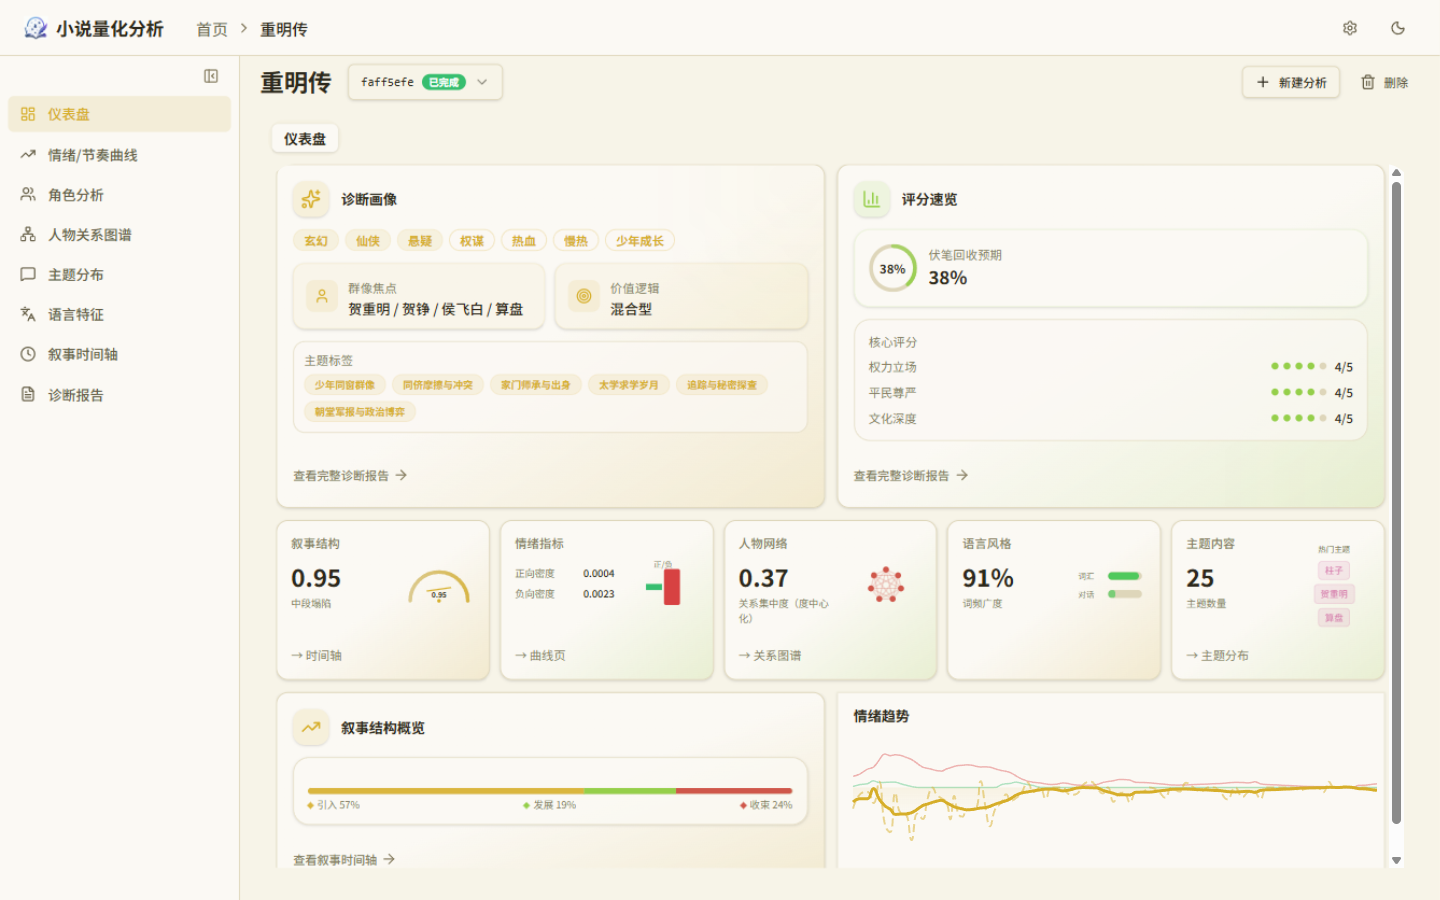
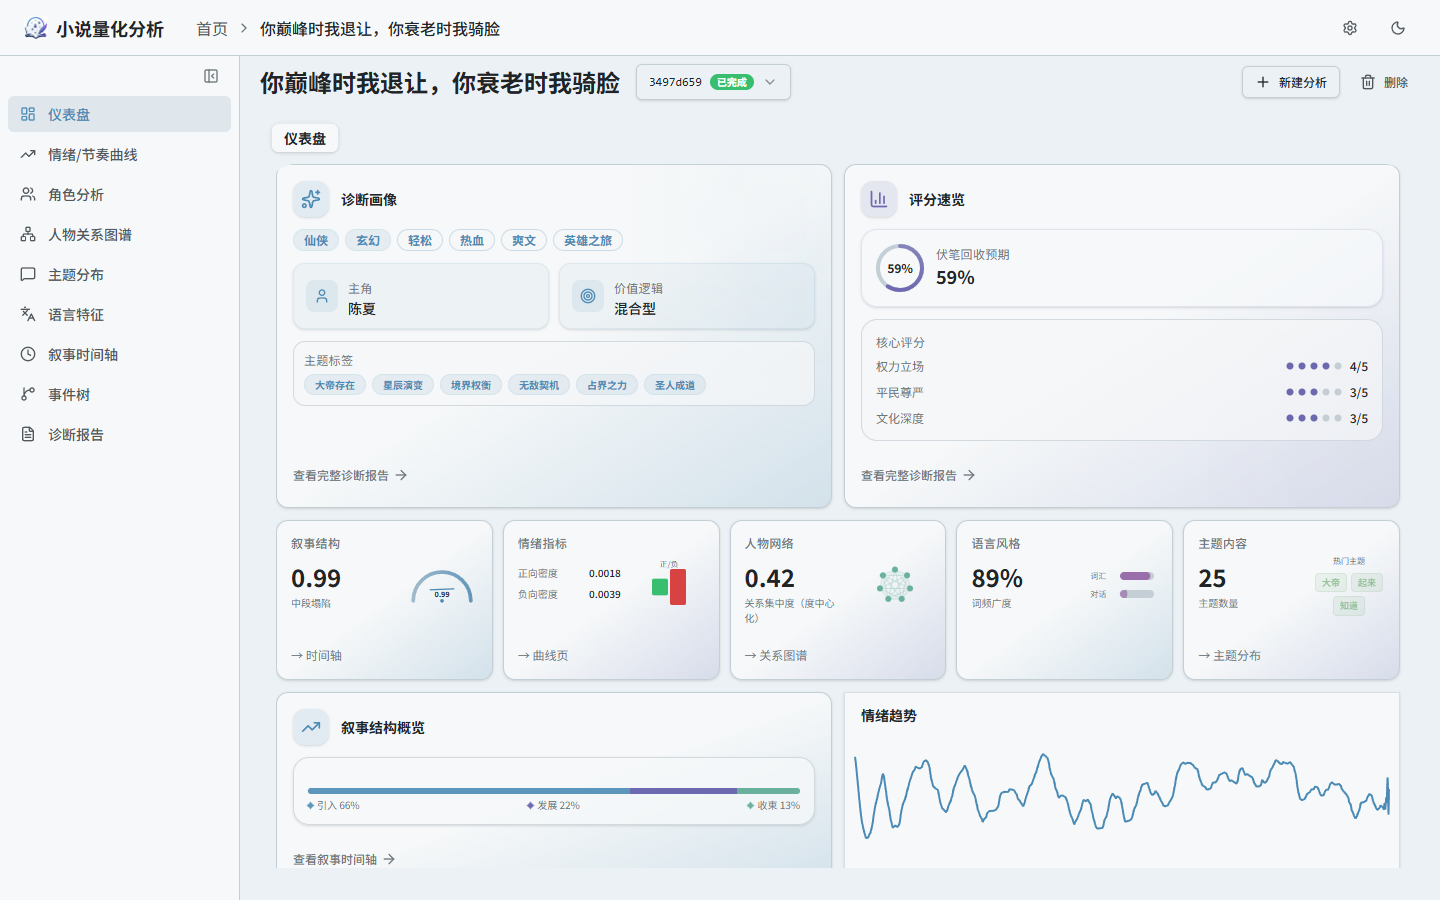
docs(readme): 更新中英文 README 与界面截图
同步嵌入查询格式化、启动结构校验与事件线界面现状，并更新截图。

diff --git a/README_EN.md b/README_EN.md
@@ -1,4 +1,4 @@
-# NovelIQ
+# NovelIQ
 
 > [中文文档](README.md)
 
@@ -12,13 +12,15 @@ A quantitative analysis platform for Chinese web novels: upload a full `.txt` bo
 
 Once analysis completes, the frontend provides:
 
-- **Sentiment / pacing curves**: paragraph-level sentiment scoring and narrative pacing metrics, whole-book curves with switchable windows
-- **Character relationship graph**: annotation agents record characters, dialogue and relations chapter by chapter, merged across chapters into a network browsed as a force-directed graph
-- **Event timeline**: plot events presented along a timeline
-- **Event trees**: inspect complete events, containment, causes and outcomes within a chapter range, with source evidence
+- **Dashboard**: score overview, dimension metrics, narrative structure, curve previews and diagnosis summary
+- **Sentiment / pacing curves**: sentiment trend aggregated by window and pacing tension smoothed per paragraph; whole-book curves with adjustable window granularity and zoom
+- **Character analysis**: appearance strength, narrative duties and focus rankings, with character arcs and emotion
+- **Character relationship graph**: annotation agents record characters and relations chapter by chapter, merged across chapters into a force-directed network searchable by character name
 - **Topic distribution**: LDA topic modeling that detects topic shifts across the plot
-- **Linguistic features**: LTP lexical and syntactic analysis, lexical richness (TTR/MTLD), dialogue ratio, and more
-- **Diagnostic report**: an LLM quality assessment grounded in whole-book evidence, exportable as a single-file HTML
+- **Linguistic features**: parts of speech, sentence patterns, word length and dependency statistics, plus entities, fixed expressions and word-vector aggregation
+- **Narrative timeline**: plot changes and character states presented along whole-book progress, with a switchable reading cutoff and display window
+- **Event trees and event lines**: the event-line view arranges key nodes by narrative line and opens the events each node covers; the directory lists every event per narrative line; details and source evidence are available
+- **Diagnostic report**: an LLM-generated comprehensive diagnosis based on whole-book evidence, plus independent foreshadowing tracking by clue state and chapter evidence
 
 | Sentiment / pacing curves | Character relationship graph |
 | --- | --- |
@@ -26,11 +28,9 @@ Once analysis completes, the frontend provides:
 | **Narrative timeline** | **Dashboard** |
 | ![Narrative timeline](assets/screenshots/timeline.png) | ![Dashboard](assets/screenshots/dashboard.png) |
 
-| Event forest | Causal structure within a tree |
+| Event lines | Event directory |
 | --- | --- |
-| ![Event forest](assets/screenshots/event-growth-forest-1440x900.png) | ![Causal structure within a tree](assets/screenshots/event-growth-tree-1440x900.png) |
-
-Read the [0.3.0 upgrade guide](docs/upgrades/UPGRADE-0.3.0.md) before upgrading from 0.2.1. The entry point defaults to read-only preflight; conversion requires a backup, an isolated rehearsal and an explicit database name. This release includes a legacy-conversion exception. Results requiring reanalysis still come from original input through the formal pipeline. Historical migration scripts apply only to their matching release checkout.
+| ![Event lines](assets/screenshots/event-lines.png) | ![Event directory](assets/screenshots/event-directory.png) |
 
 Stack: Python 3.12 / FastAPI / SQLAlchemy / PostgreSQL 17 (pgvector); React 19 / Vite / ECharts / Tailwind CSS. LLMs go through an OpenAI-compatible interface (self-hosted or third-party, both work); lexical analysis and word vectors are local offline models.
 
@@ -41,7 +41,7 @@ Stack: Python 3.12 / FastAPI / SQLAlchemy / PostgreSQL 17 (pgvector); React 19 /
 LTP and Word2Vec load from local files and **never download over the network**; both can be toggled in settings:
 
 - **LTP** (`linguistic.ltp.enabled`, on by default): a complete offline model directory, path configured via the `LTP_MODEL_DIR` environment variable. If enabled but the model is missing, analysis errors out at the Linguistic Analysis stage; when disabled, lexical/syntactic/semantic annotation is skipped
-- **Word2Vec** (`linguistic.word2vec.enabled`, off by default): no model needed while off; once enabled it requires the converted `.kv` main file under `models/word2vec/shared/` (depends on LTP tokens), and a missing file errors at the same stage. For existing `.vec`/`.bin`/`.txt` pretrained vectors, run:
+- **Word2Vec** (`linguistic.word2vec.enabled`, off by default): no model needed while off; once enabled it requires the converted `.kv` main file under `models/word2vec/shared/`; it depends on LTP tokens, is skipped when LTP is off, and errors when LTP is on but the file is missing. For existing `.vec`/`.bin`/`.txt` pretrained vectors, run:
 
   ```powershell
   uv run python -m scripts.convert_word2vec_pretrained
@@ -50,6 +50,8 @@ LTP and Word2Vec load from local files and **never download over the network**; 
   Reads from `models/word2vec/pretrained/` by default and writes to `models/word2vec/shared/`.
 
 The `models/` directory is not tracked by Git; Docker Compose mounts the host directory into the container at `/app/models`.
+
+**Embedding service**: `EMBEDDING_MODEL_BASE_URL` / `EMBEDDING_MODEL_ID` / `EMBEDDING_MODEL_KEY` point to an OpenAI-compatible embedding endpoint (a local llama-server or a cloud API; the vector dimension follows the actual output of the service). On the query side the format follows the model name: Qwen3-Embedding gets the official instruct prefix, while BGE and other models send raw text; the document side always sends raw text. Changing the embedding model requires regenerating paragraph vectors.
 
 ### Docker deployment (recommended)
 
@@ -70,7 +72,7 @@ Requires a local PostgreSQL 17 with the pgvector extension.
 ```powershell
 ./scripts/dev.ps1 setup        # install dependencies (uv)
 Copy-Item .env.example .env    # fill in database and model API keys
-./scripts/dev.ps1 api --port 8000   # initializes empty storage; existing structures must match the current models
+./scripts/dev.ps1 api --port 8000   # creates tables and installs domain constraints; startup does not check an existing structure
 ```
 
 Frontend in another terminal:
@@ -85,12 +87,13 @@ npm run dev                    # http://localhost:5173, /api proxied to backend 
 
 | Layer | Directory | Responsibility |
 | --- | --- | --- |
-| API | `src/api/routes`, `src/api/services` | HTTP endpoints, result queries, view data and HTML export |
+| API | `src/api/routes`, `src/api/services` | HTTP endpoints, result queries, view data and full-result JSON export |
 | Workflows | `src/workflows` | Task lifecycle, six-stage orchestration, recovery and cancellation |
 | Agents and domains | `src/agents`, `src/diagnosis`, `src/fact_graph`, `src/event_trees`, `src/case_pool` | Annotation, diagnosis, fact graphs, complete events and cases |
-| Quantitative analysis | `src/metrics`, `src/linguistic`, `src/topic`, `src/lexicons`, `src/text_processing` | Metrics, linguistic structure, topics, lexicons and text processing |
+| Quantitative analysis | `src/metrics`, `src/linguistic`, `src/topic`, `src/lexicons`, `src/text_processing`, `src/embedding` | Metrics, linguistic structure, topics, lexicons, text processing and semantic retrieval |
 | Execution and notifications | `src/work`, `src/model_pool`, `src/audit`, `src/event_bus`, `src/sse` | Work scheduling, model capacity and health scores, audit, persisted notifications and replay |
-| Storage | `src/storage` | 30 business tables, UUIDv7 primary keys, named read/write interfaces, transactions and domain constraints |
+| Infrastructure | `src/config`, `src/utils` | Configuration and environment variables, cancellation and event-reference utilities |
+| Storage | `src/storage` | 30 business tables, UUIDv7 primary keys, domain query modules and read facades, transactions and domain constraints |
 
 Task requests enter workflow application services through the API. Stage orchestration calls agents and domains, and Storage persists their results. Activity notifications pass through EventBus; the SSE consumer persists them before delivery and supports cursor replay. The analysis workstation displays actual agent executions and model communication.
 
@@ -105,37 +108,37 @@ flowchart LR
 
 | Stage | Entry point | Processing and output |
 | --- | --- | --- |
-| Preprocess | `run_preprocess` | Encoding detection, chapter splitting, chapter and paragraph storage, and embeddings; later stages share the original paragraph boundaries |
-| Annotate | `run_annotate` | The chapter work pool schedules annotation or entity / event / metric roles to extract entities, relations, dialogue, complete events, foreshadowing and metrics; finish requests still require completeness checks and save confirmation |
-| Linguistic | `run_linguistic` | LTP tokens, dependency and semantic dependency arcs, phrase matches and emotion events; Word2Vec runs when enabled |
-| Aggregate | `run_aggregate` | Paragraph metrics, sentiment and pacing curves, global statistics and quality checks |
-| Topic model | `run_topic_model` | LDA training and model persistence; the run stores completion facts and `lda_paragraph_topics` stores paragraph topic distributions |
-| Diagnose | `run_diagnose` | Diagnosis roles gather evidence, handle cases and produce reports, with concurrency bounded by actual model-pool capacity |
+| Preprocess | `run_preprocess` | Encoding detection, chapter splitting, chapter and paragraph storage, paragraph metrics and smoothed curves; paragraph vectors are generated when semantic retrieval is enabled, and later stages share the original paragraph boundaries |
+| Annotate | `run_annotate` | The chapter work pool schedules annotation or entity / event / metric roles to extract entities, relations, dialogue, complete events, foreshadowing and metrics; chapters without text are not dispatched; writes take effect immediately and a finish request triggers a program completeness check before saving |
+| Linguistic | `run_linguistic` | LTP tokens, dependency and semantic dependency arcs, phrase matches and emotion events; Word2Vec trains when LTP is on; a per-book emotion boundary is fitted from self-selected paragraph labels and paragraph scores are written back |
+| Aggregate | `run_aggregate` | Aggregates whole-book and chapter statistics from paragraph sufficient statistics and runs quality checks; curves are read from stored results and not recomputed |
+| Topic model | `run_topic_model` | LDA training and model persistence; `lda_paragraph_topics` stores paragraph topic distributions |
+| Diagnose | `run_diagnose` | Diagnosis roles gather evidence, handle cases and produce reports, with dispatch bounded by model-pool health scores and actual capacity |
 
 **Recovery and cancellation**: the database stores task states and stage completion facts. Resuming preserves saved annotation-role results. Workflows handle cancellation, failures and retries, and the workstation shows failure summaries, retries and work that did not execute.
 
-**Concurrency and programs**: chapter size determines single-role or entity / event / metric work; actual concurrency follows model-pool capacity. Models batch reads and writes through `execute_code(code)` in a restricted interpreter with variables retained between programs. Programs reuse the original tool validation and reject imports, file access and network access. Model settings include context capacity, with conversation compaction when its conditions are met.
+**Concurrency and programs**: chapter size determines single-role or entity / event / metric work; actual concurrency follows model-pool capacity. Models batch reads and writes through `execute_code(code)` in a restricted interpreter with variables retained between programs. Only whitelisted modules (json, unicodedata, math, collections, datetime) are importable; other attribute access, file access and network access are blocked. Model settings include context capacity, with conversation compaction when its conditions are met.
 
 ## Quantitative Methods
 
-- **Curves and smoothing** — Sentiment/pacing curves are plotted on character coordinates; smoothing uses robust LOWESS: tricube-kernel weighted local linear regression, three bisquare robust iterations to suppress outlier segments, and bandwidth doubling adaptively when a window lacks enough points. Smoothing anchors to the character positions of paragraph scores (paragraph length as sample weight).
-- **Per-book emotion calibration** — Paragraph emotion intensity is scored directly by the sentiment lexicon (negation handled as a shared computation layer, effective within sentence boundaries); the annotation agent picks emotion-bearing paragraphs per chapter as supervision, paragraph vectors across the book fit a linear boundary, and scores are written back per paragraph. With insufficient supervision (fewer than 2 labels, or all identical scores) the field stays empty rather than fabricated; and because each book fits its own scale, curves are not comparable across books.
-- **Topics and shifts** — gensim LDA persists model artifacts and paragraph topic distributions with their full weights; topic shifts use Jensen-Shannon divergence between adjacent windows.
-- **Narrative phases and tension** — Global/local peak detection divides the book into setup / development / climax / resolution; tension proxies (fuzzy-match density of combat words, exclamation/question density, dialogue ratio, average sentence length) are computed per phase.
+- **Curves and smoothing** — Sentiment/pacing curves use whole-book progress as the axis; the backend applies robust LOWESS to window-aggregated series: tricube-kernel weighted local linear regression, three bisquare robust iterations to suppress outlier segments, and bandwidth doubling adaptively when a window lacks enough points. Positions are window character progress (0–1) and weights are window token counts.
+- **Per-book emotion calibration** — Paragraph emotion intensity is scored directly by the sentiment lexicon (negation scope determined by same-sentence token distance); the annotation agent picks emotion-bearing paragraphs per chapter as supervision; the linguistic stage fits a ridge-regression linear boundary on whole-book paragraph vectors and writes scores back per paragraph. With insufficient supervision (fewer than 2 labels, or all identical scores) the lexicon scale is kept and no boundary is fabricated; and because each book fits its own scale, curves are not comparable across books.
+- **Topics and shifts** — gensim LDA persists model artifacts and paragraph topic distributions with their full weights; topic shifts use Jensen-Shannon divergence between adjacent window distributions (base 2, range 0–1).
+- **Narrative phases, three acts and tension** — Global/local peak detection divides the book into setup / development / climax / resolution, identifies the main climax region and picks the first-act boundary under ratio and window constraints; tension combines five surface components — weighted combat-word hit rate, exclamation and question frequency, pause punctuation frequency and dialogue character ratio — each robustly standardized within the run by median/MAD (clipped to ±3), weighted-averaged and mapped to 0–1 by a sigmoid.
 
 ## Fact Graph and Cases
 
-Annotation agents register entities, relations, dialogue and facts in a shared graph scoped to the run. Entity references use source-text names and categories; reads support keyword search, field projection and pagination. Contributions retain their actual producing agent, with the existing save-confirmation and rollback chain handling failure and recovery.
+Annotation agents register entities, relations, dialogue and facts in a shared graph scoped to the run. Entity references use source-text names and categories; reads support keyword search, paragraph semantic recall and pagination. Contributions retain their actual producing agent, with the existing save-confirmation and rollback chain handling failure and recovery.
 
-Cases enter one pool with explicit `caseid` values and are handled through `claim_case`, `submit_case` and abandonment. A session can hold multiple cases. Claiming governs case handling and does not lock an event. Cases store registration and resolution state; business results retain their actual producer independently.
+Cases enter one pool: annotation and diagnosis register text cases through `push_case`, and event trees without a parent are registered automatically by tree identity when saved; `claim_case` or `claim_random_case` claims a case exclusively, and `submit_case` submits it. One execution can hold several unsubmitted cases; claiming only governs case handling and does not lock events. Cases store type, description, owner and submission state; business results retain their actual producer independently.
 
 ## Event Tree
 
 `event_records` stores complete-event titles, problems, summaries, types, states, chapter ranges and actual producers. Participants and source evidence are stored separately. Annotation and diagnosis share formal event identities. Chapter reads use actual chapter boundaries, while cross-chapter results retain their source evidence.
 
-Containment, semantic links, plotlines and outcome organization use the formal domain interfaces. The desktop event tree displays related events as cards and relationship curves with detail and source-text inspection. The timeline independently presents plot order.
+`event_groups` stores event trees and whole-book outcome nodes; tree identity is independent of events, and empty trees are valid. `event_links` stores semantic links, member order within a tree and whole-tree parent/child references. Event lines are selected from event trees during diagnosis and named by the diagnosis agent (names end with 线). The desktop event tree offers event-line and directory views: event lines arrange key nodes and their links by narrative line, and clicking a node lists the events it covers; the directory lists every event per narrative line; details open in the side panel and source evidence opens in a reader dialog; the timeline independently presents plot changes and character states.
 
-Initialization first checks existing tables, fields, types, keys and constraints without modifying them; incompatible structures are rejected. Routine data corrections regenerate results from original input. See the [0.3.0 upgrade guide](docs/upgrades/UPGRADE-0.3.0.md) for this release's legacy conversion scope, archives and reanalysis requirements.
+Initialization creates tables and installs domain constraints for a new database. Routine data corrections regenerate results from original input.
 
 ## Audit and Notifications
 
